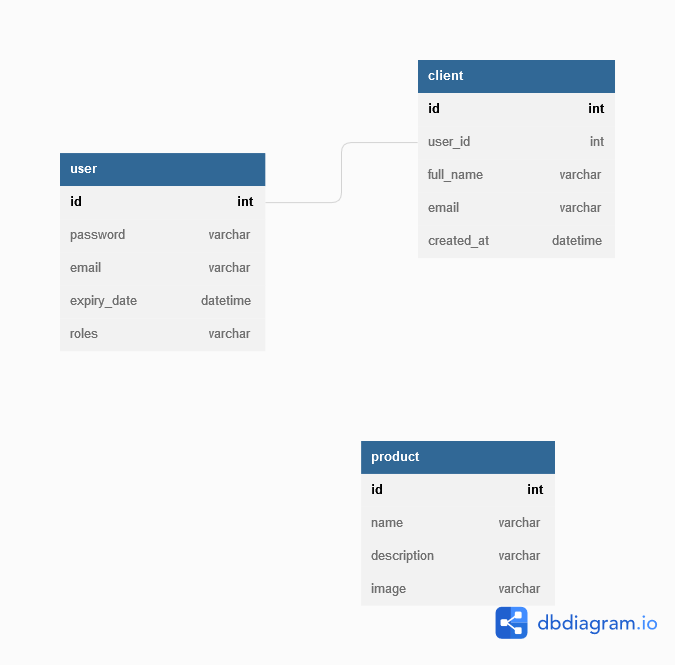
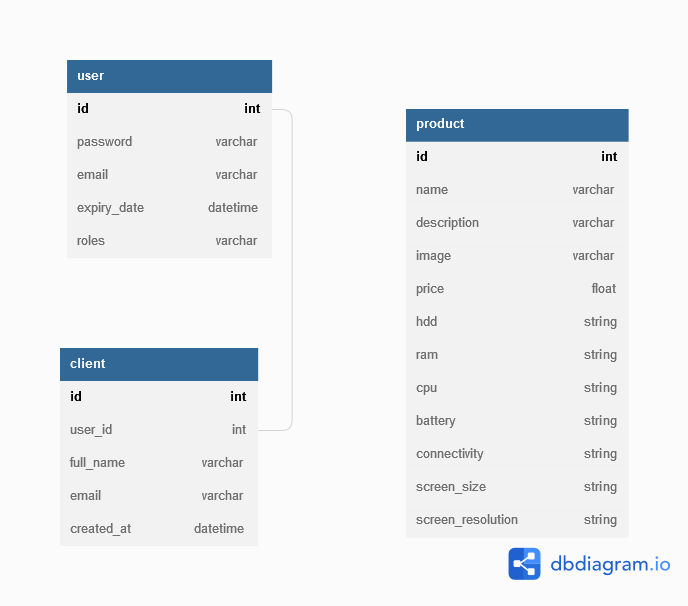
Add more details to products

diff --git a/src/Entity/Product.php b/src/Entity/Product.php
@@ -50,6 +50,62 @@ class Product
     #[ORM\Column(length: 255, nullable: true)]
     private ?string $image = null;
 
+    /**
+     * @Serializer\Expose()
+     * @Serializer\Groups({"sensitive", "single_product"})
+     */
+    #[ORM\Column(nullable: true)]
+    private ?float $price = null;
+
+    /**
+     * @Serializer\Expose()
+     * @Serializer\Groups({"sensitive", "single_product"})
+     */
+    #[ORM\Column(length: 255, nullable: true)]
+    private ?string $hdd = null;
+
+    /**
+     * @Serializer\Expose()
+     * @Serializer\Groups({"sensitive", "single_product"})
+     */
+    #[ORM\Column(length: 255, nullable: true)]
+    private ?string $ram = null;
+
+    /**
+     * @Serializer\Expose()
+     * @Serializer\Groups({"sensitive", "single_product"})
+     */
+    #[ORM\Column(length: 255, nullable: true)]
+    private ?string $cpu = null;
+
+    /**
+     * @Serializer\Expose()
+     * @Serializer\Groups({"sensitive", "single_product"})
+     */
+    #[ORM\Column(length: 255, nullable: true)]
+    private ?string $battery = null;
+
+    /**
+     * @Serializer\Expose()
+     * @Serializer\Groups({"sensitive", "single_product"})
+     */
+    #[ORM\Column(length: 255, nullable: true)]
+    private ?string $connectivity = null;
+
+    /**
+     * @Serializer\Expose()
+     * @Serializer\Groups({"sensitive", "single_product"})
+     */
+    #[ORM\Column(length: 255, nullable: true)]
+    private ?string $screen_size = null;
+
+    /**
+     * @Serializer\Expose()
+     * @Serializer\Groups({"sensitive", "single_product"})
+     */
+    #[ORM\Column(length: 255, nullable: true)]
+    private ?string $screen_resolution = null;
+
     public function getId(): ?Uuid
     {
         return $this->id;
@@ -87,6 +143,102 @@ class Product
     public function setImage(?string $image): self
     {
         $this->image = $image;
+
+        return $this;
+    }
+
+    public function getPrice(): ?float
+    {
+        return $this->price;
+    }
+
+    public function setPrice(?float $price): self
+    {
+        $this->price = $price;
+
+        return $this;
+    }
+
+    public function getHdd(): ?string
+    {
+        return $this->hdd;
+    }
+
+    public function setHdd(?string $hdd): self
+    {
+        $this->hdd = $hdd;
+
+        return $this;
+    }
+
+    public function getRam(): ?string
+    {
+        return $this->ram;
+    }
+
+    public function setRam(?string $ram): self
+    {
+        $this->ram = $ram;
+
+        return $this;
+    }
+
+    public function getCpu(): ?string
+    {
+        return $this->cpu;
+    }
+
+    public function setCpu(?string $cpu): self
+    {
+        $this->cpu = $cpu;
+
+        return $this;
+    }
+
+    public function getBattery(): ?string
+    {
+        return $this->battery;
+    }
+
+    public function setBattery(?string $battery): self
+    {
+        $this->battery = $battery;
+
+        return $this;
+    }
+
+    public function getConnectivity(): ?string
+    {
+        return $this->connectivity;
+    }
+
+    public function setConnectivity(?string $connectivity): self
+    {
+        $this->connectivity = $connectivity;
+
+        return $this;
+    }
+
+    public function getScreenSize(): ?string
+    {
+        return $this->screen_size;
+    }
+
+    public function setScreenSize(?string $screen_size): self
+    {
+        $this->screen_size = $screen_size;
+
+        return $this;
+    }
+
+    public function getScreenResolution(): ?string
+    {
+        return $this->screen_resolution;
+    }
+
+    public function setScreenResolution(?string $screen_resolution): self
+    {
+        $this->screen_resolution = $screen_resolution;
 
         return $this;
     }

diff --git a/migrations/Version20220920184835.php b/migrations/Version20220920184835.php
@@ -1,0 +1,46 @@
+<?php
+
+declare(strict_types=1);
+
+namespace DoctrineMigrations;
+
+use Doctrine\DBAL\Schema\Schema;
+use Doctrine\Migrations\AbstractMigration;
+
+/**
+ * Auto-generated Migration: Please modify to your needs!
+ */
+final class Version20220920184835 extends AbstractMigration
+{
+    public function getDescription(): string
+    {
+        return '';
+    }
+
+    public function up(Schema $schema): void
+    {
+        // this up() migration is auto-generated, please modify it to your needs
+        $this->addSql('ALTER TABLE product ADD price DOUBLE PRECISION DEFAULT NULL');
+        $this->addSql('ALTER TABLE product ADD hdd VARCHAR(255) DEFAULT NULL');
+        $this->addSql('ALTER TABLE product ADD ram VARCHAR(255) DEFAULT NULL');
+        $this->addSql('ALTER TABLE product ADD cpu VARCHAR(255) DEFAULT NULL');
+        $this->addSql('ALTER TABLE product ADD battery VARCHAR(255) DEFAULT NULL');
+        $this->addSql('ALTER TABLE product ADD connectivity VARCHAR(255) DEFAULT NULL');
+        $this->addSql('ALTER TABLE product ADD screen_size VARCHAR(255) DEFAULT NULL');
+        $this->addSql('ALTER TABLE product ADD screen_resolution VARCHAR(255) DEFAULT NULL');
+    }
+
+    public function down(Schema $schema): void
+    {
+        // this down() migration is auto-generated, please modify it to your needs
+        $this->addSql('CREATE SCHEMA public');
+        $this->addSql('ALTER TABLE product DROP price');
+        $this->addSql('ALTER TABLE product DROP hdd');
+        $this->addSql('ALTER TABLE product DROP ram');
+        $this->addSql('ALTER TABLE product DROP cpu');
+        $this->addSql('ALTER TABLE product DROP battery');
+        $this->addSql('ALTER TABLE product DROP connectivity');
+        $this->addSql('ALTER TABLE product DROP screen_size');
+        $this->addSql('ALTER TABLE product DROP screen_resolution');
+    }
+}

diff --git a/src/DataFixtures/AppFixtures.php b/src/DataFixtures/AppFixtures.php
@@ -47,9 +47,18 @@ class AppFixtures extends Fixture
 
         for ($i = 0; $i < 10; $i++) {
             $product = new Product();
-            $product->setName('Product ' . $i);
-            $product->setDescription(md5(rand(0, 1000000)));
-            $product->setImage(md5(rand(0, 1000000)));
+            $product->setName(rand(0, 1) == 1 ? 'iPhone ' . rand(8, 12) : 'Samsung S' . rand(9, 53));
+            $product->setDescription('Lorem ipsum dolor sit amet, consectetur adipiscing elit. Donec auctor, nisl eget aliquam ultricies, nunc nisl aliquam nisl, eget aliquam nunc nisl eget nunc.');
+            $product->setImage('https://www.backmarket.fr/cdn-cgi/image/format=auto,quality=75,width=640/https://d1eh9yux7w8iql.cloudfront.net/product_images/36827_24756a33-907f-4a5a-ac95-73ce492104e7.jpg');
+            $product->setPrice(rand(100, 1000));
+            $product->setHdd('128GB');
+            $product->setRam('4GB');
+            $product->setCpu('A13 Bionic');
+            $product->setScreenSize('6.1"');
+            $product->setScreenResolution('1792 x 828');
+            $product->setBattery('3110mAh');
+            $product->setConnectivity('5G');
+
             $manager->persist($product);
 
             $client = new Client();
@@ -57,7 +66,7 @@ class AppFixtures extends Fixture
             $client->setEmail('client' . $i . '@gmail.com');
             $client->setCreatedAt(new \DateTimeImmutable());
             $client->setUpdatedAt(new \DateTimeImmutable());
-            $client->setUserId($user);
+            $client->setUserId(rand(0, 1) == 1 ? $user : $user2);
             $manager->persist($client);
         }
 
